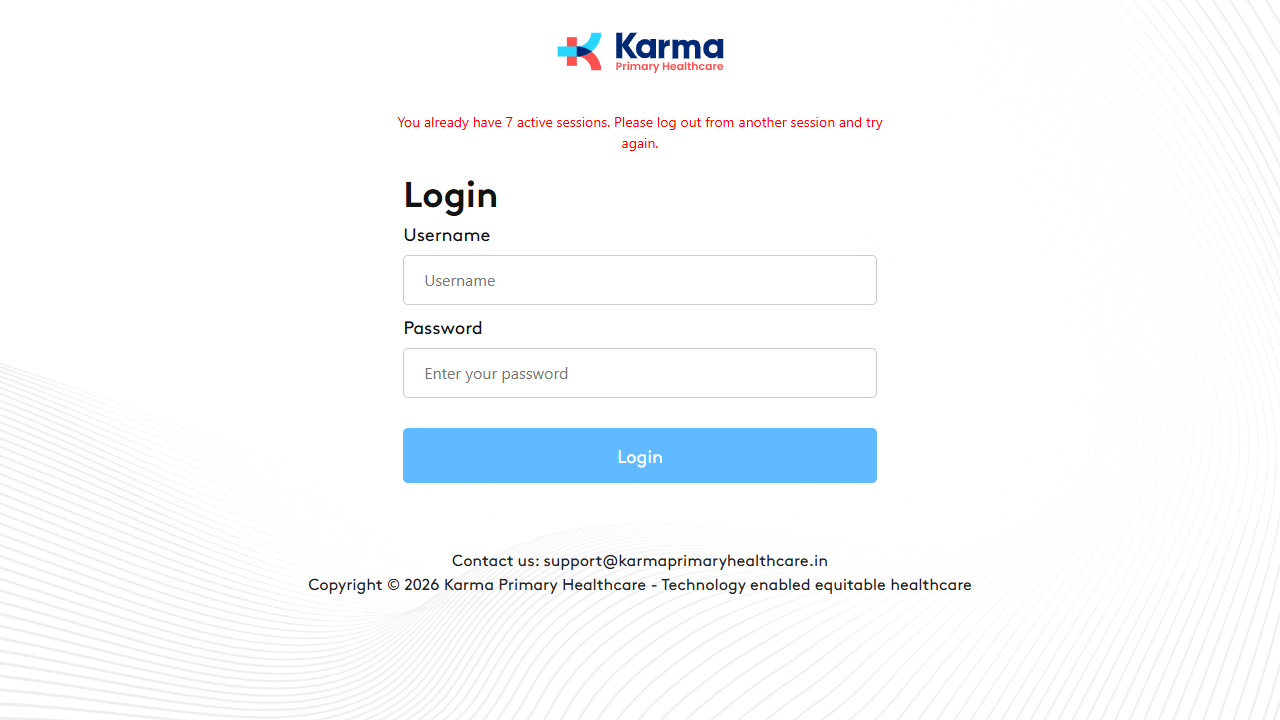
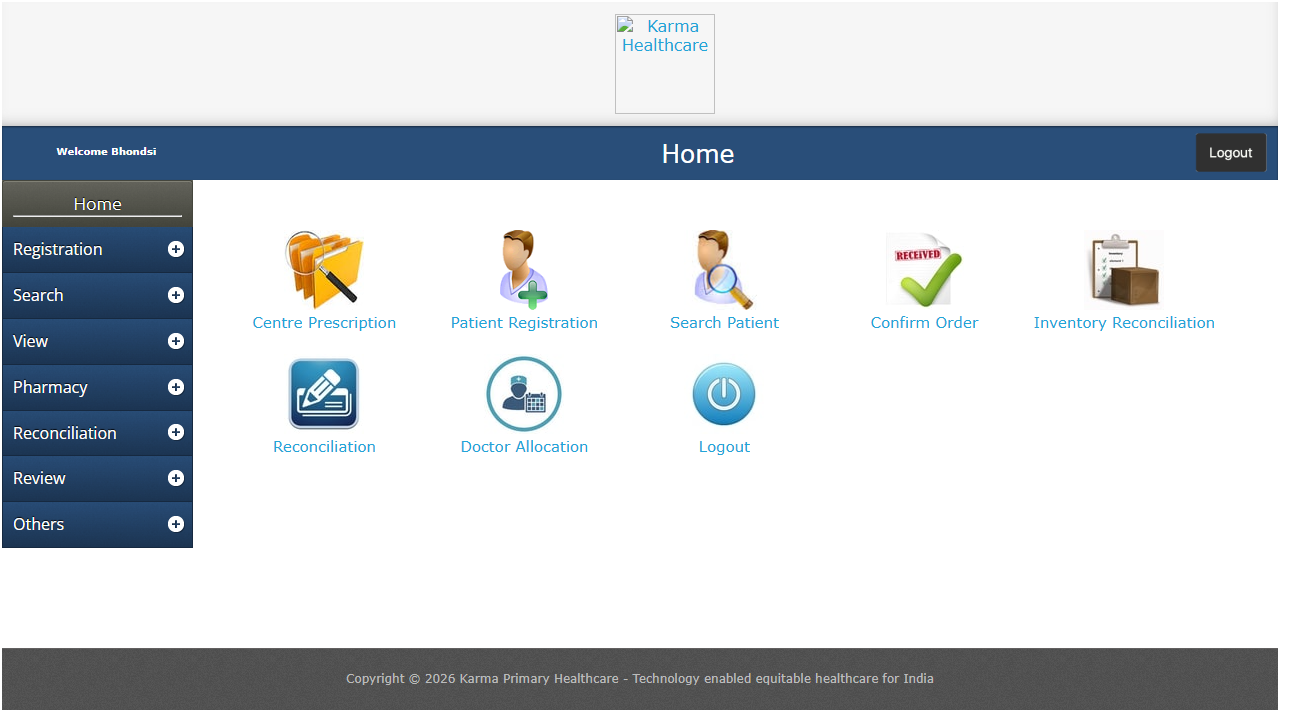
Added Env

diff --git a/tests/patient/patient-case-history.spec.ts b/tests/patient/patient-case-history.spec.ts
@@ -1,10 +1,14 @@
 import { test } from '@playwright/test';
+import {
+  validPassword,
+  validUsername,
+} from '../config/test-env';
 
 test('Patient registration then case history', async ({ page }) => {
   await page.goto('https://sandbox.karmaprimaryhealthcare.in/Login');
 
-  await page.getByRole('textbox', { name: 'Username' }).fill('bhondsi');
-  await page.getByPlaceholder('Enter your password').fill('Sandbox@1234');
+  await page.getByRole('textbox', { name: 'Username' }).fill(validUsername);
+  await page.getByPlaceholder('Enter your password').fill(validPassword);
   await page.getByRole('button', { name: 'Login' }).click();
 
   const activeSessionMessage = page.getByText(/already have \d+ active sessions/i);

diff --git a/tests/auth/login-negative.spec.ts b/tests/auth/login-negative.spec.ts
@@ -1,18 +1,15 @@
 import { test, expect, Page } from '@playwright/test';
+import {
+    inactivePassword,
+    inactiveUsername,
+    validPassword,
+    validUsername,
+} from './auth.config';
+import { wrongPassword } from '../config/test-env';
 
 const LOGIN_URL = 'https://sandbox.karmaprimaryhealthcare.in/Login';
 
 // Valid active user
-const validUsername = 'bhondsi';
-const validPassword = 'Sandbox@1234';
-
-// Wrong password test
-const wrongPassword = 'WrongPassword123';
-
-// Inactive user test
-const inactiveUsername = 'inactive_user';
-const inactivePassword = 'Sandbox@1234';
-
 // Common error message pattern
 const loginErrorText = /invalid|inactive|already|active|error|failed|incorrect|wrong/i;
 

diff --git a/tests/config/test-env.ts b/tests/config/test-env.ts
@@ -1,0 +1,15 @@
+function requiredEnvironmentVariable(name: string): string {
+    const value = process.env[name];
+
+    if (!value) {
+        throw new Error(`Missing required environment variable: ${name}`);
+    }
+
+    return value;
+}
+
+export const validUsername = requiredEnvironmentVariable('E2E_USERNAME');
+export const validPassword = requiredEnvironmentVariable('E2E_PASSWORD');
+export const inactiveUsername = requiredEnvironmentVariable('E2E_INACTIVE_USERNAME');
+export const inactivePassword = requiredEnvironmentVariable('E2E_INACTIVE_PASSWORD');
+export const wrongPassword = requiredEnvironmentVariable('E2E_WRONG_PASSWORD');

diff --git a/tests/patient/patient-registration.spec.ts b/tests/patient/patient-registration.spec.ts
@@ -1,4 +1,8 @@
 import { test, expect } from '@playwright/test';
+import {
+    validPassword,
+    validUsername,
+} from '../config/test-env';
 
 test('Patient Registration', async ({ page }) => {
 
@@ -6,11 +10,11 @@ test('Patient Registration', async ({ page }) => {
 
     // Enter Username
     await page.getByRole('textbox', { name: 'Username' })
-        .fill('bhondsi');
+        .fill(validUsername);
 
     // Enter Password
     await page.getByPlaceholder('Enter your password')
-        .fill('Sandbox@1234');
+        .fill(validPassword);
 
     // Click Login
     await page.getByRole('button', { name: 'Login' }).click();

diff --git a/tests/auth/login.spec.ts b/tests/auth/login.spec.ts
@@ -1,4 +1,5 @@
 import { test, expect } from '@playwright/test';
+import { validUsername, validPassword } from './auth.config';
 
 test('User Login', async ({ page }) => {
 
@@ -6,11 +7,11 @@ test('User Login', async ({ page }) => {
 
     // Enter Username
     await page.getByRole('textbox', { name: 'Username' })
-    .fill('bhondsi');
+    .fill(validUsername);
 
     // Enter Password
     await page.getByPlaceholder('Enter your password')
-        .fill('Sandbox@1234');
+        .fill(validPassword);
 
     // Pause
     //await page.pause();

diff --git a/playwright.config.ts b/playwright.config.ts
@@ -1,12 +1,12 @@
 import { defineConfig, devices } from '@playwright/test';
+import dotenv from 'dotenv';
+import path from 'path';
 
 /**
  * Read environment variables from file.
  * https://github.com/motdotla/dotenv
  */
-// import dotenv from 'dotenv';
-// import path from 'path';
-// dotenv.config({ path: path.resolve(__dirname, '.env') });
+dotenv.config({ path: path.resolve(__dirname, '.env') });
 
 /**
  * See https://playwright.dev/docs/test-configuration.

diff --git a/tests/auth/auth.config.ts b/tests/auth/auth.config.ts
@@ -1,0 +1,6 @@
+export {
+    inactivePassword,
+    inactiveUsername,
+    validPassword,
+    validUsername,
+} from '../config/test-env';
